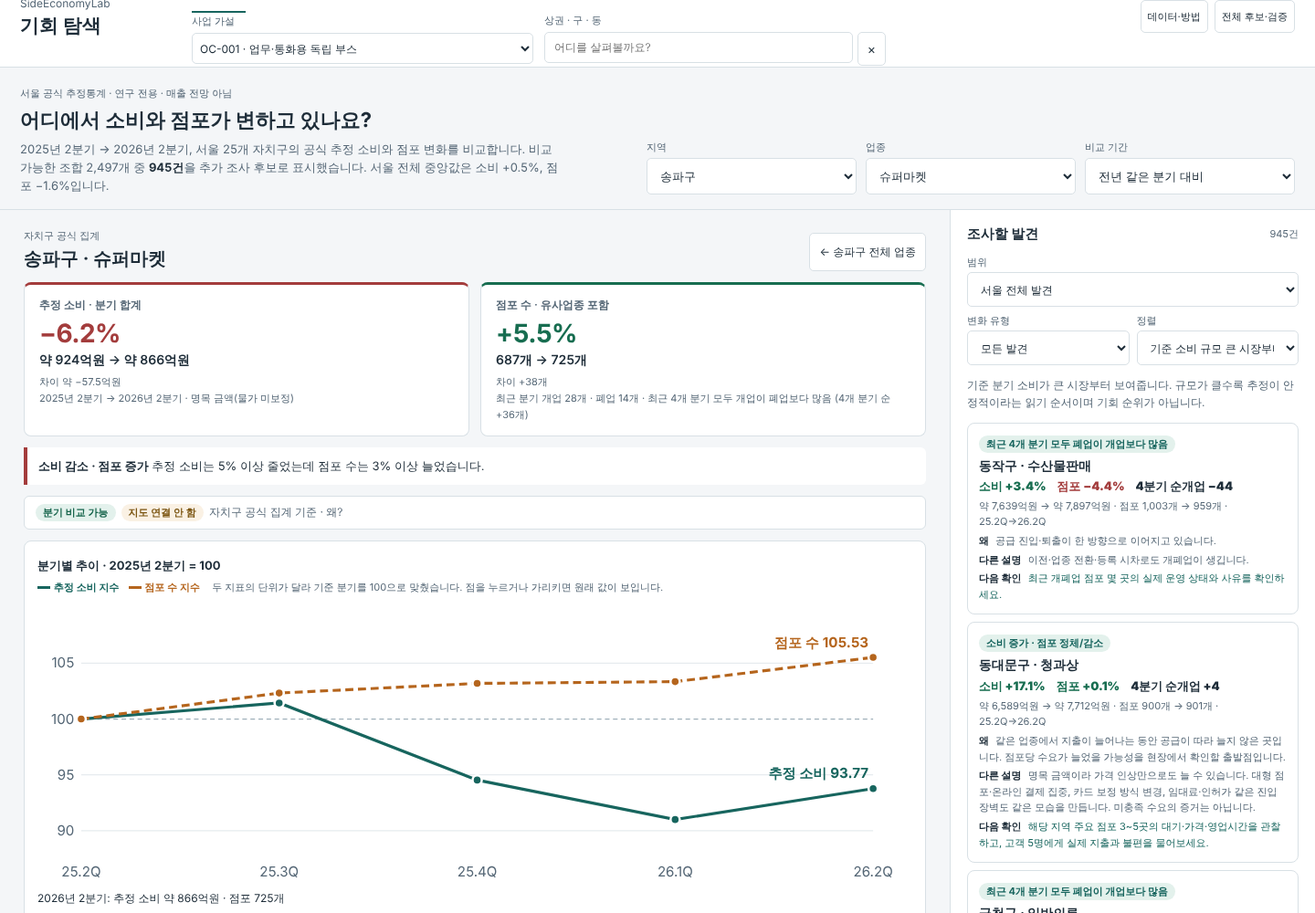
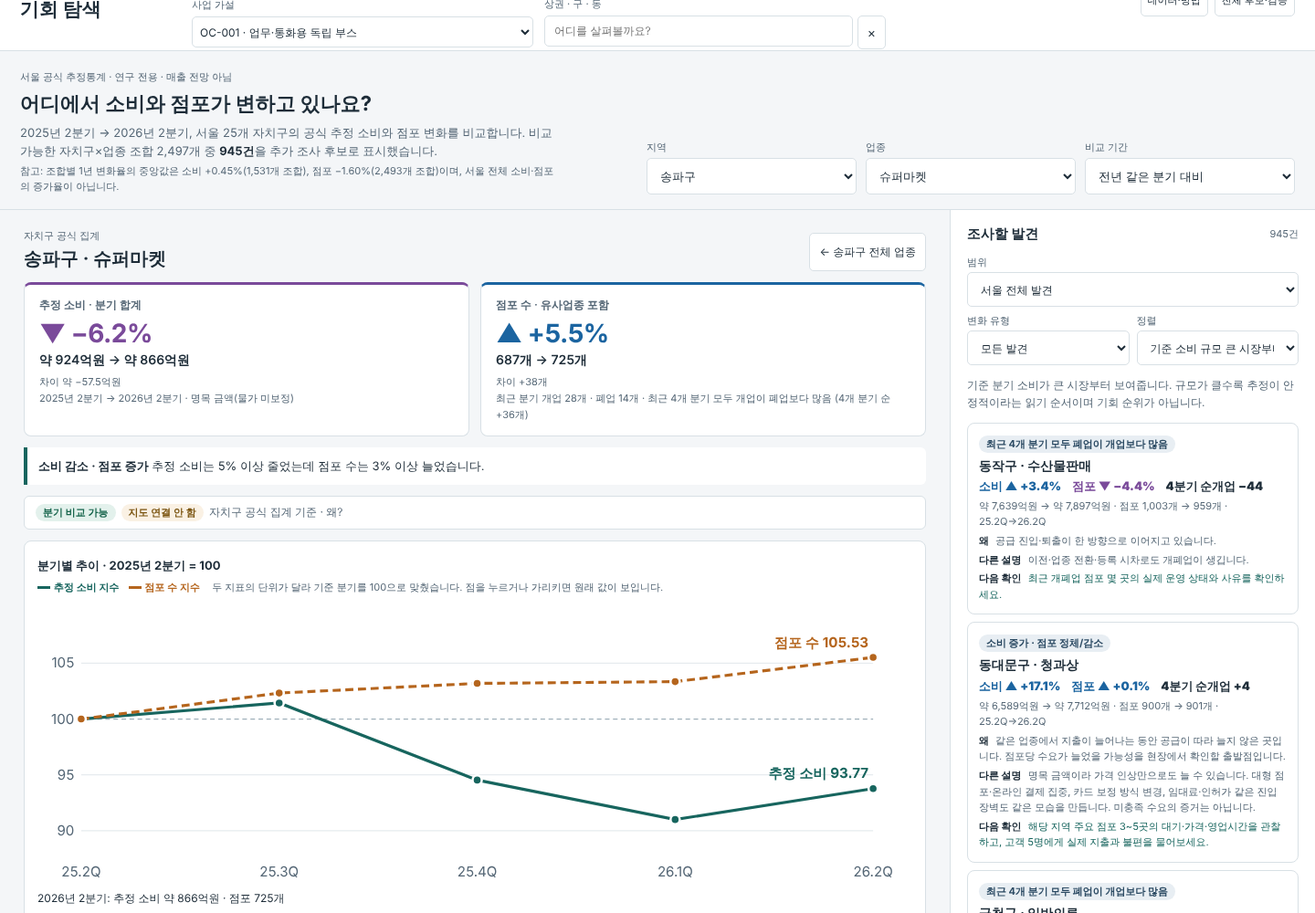
fix: pre-merge repairs for Opportunity Radar v2
- Statistics: median is across comparable district-industry combinations, not a Seoul-wide rate
- Labels: district comparisons count districts, within-district comparisons count industries
- Colors: up/down mean direction only (blue/violet + arrows), never good/bad
- Workflow: manual-only, contents: read, artifact-only; remove branch push trigger and dev config
- Transport: audit shows the official endpoint has no verified HTTPS; plaintext use is explicit,
  never silent, never logs the key; documented limits and mitigations; tests added
- Data, calculations, snapshots, gates, GIS, candidates unchanged (byte-identical to 8b981e4)

Claude-Session: https://claude.ai/code/session_015Qwu2hBhBHdZ7nzeE7Jhfd

diff --git a/docs/assets/opportunity-radar.js b/docs/assets/opportunity-radar.js
@@ -78,7 +78,7 @@
   function headline() {
     const d = domainOf('district'), c = data.coverage;
     $('radar-headline').innerHTML = d && d.gates.temporal.status === 'VERIFIED'
-      ? `${F.quarter(data.periods[0])} → ${F.quarter(data.periods.at(-1))}, 서울 ${d.areas.length}개 자치구의 공식 추정 소비와 점포 변화를 비교합니다. 비교 가능한 자치구×업종 조합 ${c.comparable.toLocaleString('ko-KR')}개 중 <strong>${c.findings.toLocaleString('ko-KR')}건</strong>을 추가 조사 후보로 표시했습니다. <span class="radar-stat">참고: 조합별 1년 변화율의 중앙값은 소비 ${F.signed(d.context.median_sales_yoy_pct)}%(${d.context.comparable_sales.toLocaleString('ko-KR')}개 조합), 점포 ${F.signed(d.context.median_stores_yoy_pct)}%(${d.context.comparable_stores.toLocaleString('ko-KR')}개 조합)이며, 서울 전체 소비·점포의 증가율이 아닙니다.</span>`
+      ? `${F.quarter(data.periods[0])} → ${F.quarter(data.periods.at(-1))}, 서울 ${d.areas.length}개 자치구의 공식 추정 소비와 점포 변화를 비교합니다. 비교 가능한 자치구×업종 조합 ${c.comparable.toLocaleString('ko-KR')}개 중 <strong>${c.findings.toLocaleString('ko-KR')}건</strong>을 추가 조사 후보로 표시했습니다. <span class="radar-stat">참고: 조합별 1년 변화율의 중앙값은 소비 ${F.signed(d.context.median_sales_yoy_pct, 2)}%(${d.context.comparable_sales.toLocaleString('ko-KR')}개 조합), 점포 ${F.signed(d.context.median_stores_yoy_pct, 2)}%(${d.context.comparable_stores.toLocaleString('ko-KR')}개 조합)이며, 서울 전체 소비·점포의 증가율이 아닙니다.</span>`
       : '관측 자료는 확보했지만 같은 지리 기준을 공식 근거로 확인하지 못해 변화 비교를 보류합니다.';
   }
 

diff --git a/tests/test_opportunity_radar.py b/tests/test_opportunity_radar.py
@@ -1,19 +1,25 @@
 """API doubles are synthetic and isolated in temporary directories, never live artifacts."""
 import copy
+import contextlib
 from datetime import datetime, timezone
 import gzip
 import io
 import json
+import os
 from pathlib import Path
 import shutil
+import ssl
 import sys
 import tempfile
 import unittest
+import urllib.error
+import urllib.parse
 from unittest.mock import patch
 
 sys.path.insert(0, str(Path(__file__).resolve().parents[1] / 'pipeline'))
 import opportunity_radar as R
-from public_api_client import SourceError
+import seoul_open_data_smoke as SMOKE
+from public_api_client import SourceError, NoRedirect
 
 PERIODS = ['20252', '20253', '20254', '20261', '20262']
 VERIFIED_TEMPORAL = {'verified': True, 'summary': 'synthetic', 'boundary_basis': 'synthetic', 'code_basis': 'synthetic', 'industry_basis': 'synthetic',
@@ -285,6 +291,91 @@ class RadarTests(unittest.TestCase):
             status = json.loads((root / R.STATUS).read_bytes())
             self.assertEqual(status['status'], 'BLOCKED'); self.assertEqual(status['reason'], 'SEOUL_API_ERROR-290'); self.assertTrue(status['previous_snapshot_preserved'])
             R.check(root)
+
+
+class TransportTests(unittest.TestCase):
+    """Seoul Open API has no verified HTTPS (audited 2026-10-11). Plaintext must be explicit, pinned and never leak the key."""
+    KEY = 'SYN+THETIC/KEY=0123456789abcdef'  # synthetic; special characters exercise URL quoting
+
+    def forms(self):
+        return {self.KEY, urllib.parse.quote(self.KEY, safe=''), urllib.parse.quote(self.KEY)}
+
+    def assert_no_key(self, text):
+        for form in self.forms():
+            self.assertNotIn(form, text)
+
+    def test_audit_evidence_is_recorded_and_says_no_verified_https(self):
+        audit = json.loads((R.ROOT / 'research/opportunity-radar-v2/transport-audit.json').read_bytes())
+        self.assertEqual(audit['key_used'], 'public sample key only'); self.assertFalse(audit['verified_https_available'])
+        self.assertTrue(audit['control_runner_can_verify_tls'], 'the runner could verify TLS elsewhere, so the failure is the endpoint')
+        by = {r['case']: r for r in audit['results']}
+        self.assertEqual(by['https_8088_verified']['detail'], 'WRONG_VERSION_NUMBER'); self.assertEqual(by['http_8088_plain']['api_code'], 'INFO-000')
+        self.assertEqual(R.API_ENDPOINT, 'http://openapi.seoul.go.kr:8088/')
+
+    def test_only_the_audited_endpoint_is_used_never_https_never_another_host(self):
+        urls = []
+        class Opener:
+            def open(self, req, timeout): urls.append(req.full_url); return io.BytesIO(json.dumps({'RESULT': {'CODE': 'INFO-200'}}).encode())
+        client = R.SeoulHistoryClient(key=self.KEY, opener=Opener(), budget=5)
+        client.call('sales', 1, 1, '20262', '3001492'); client.call('stores', 1, 1, '20262', '3001492'); client.call('sales', 1, 1, '20262', service='VwsmSignguSelngW')
+        self.assertEqual(len(urls), 3)
+        self.assertTrue(all(u.startswith('http://openapi.seoul.go.kr:8088/') for u in urls)); self.assertFalse(any(u.startswith('https') for u in urls))
+
+    def test_transport_failure_does_not_fall_back_to_another_scheme_or_host(self):
+        urls = []
+        class Opener:
+            def open(self, req, timeout): urls.append(req.full_url); raise ssl.SSLError('simulated TLS failure ' + req.full_url)
+        client = R.SeoulHistoryClient(key=self.KEY, opener=Opener(), budget=5)
+        with self.assertRaisesRegex(SourceError, '^SEOUL_TRANSPORT_OR_PARSE_FAILED$'): client.call('sales', 1, 1, '20262', '3001492')
+        self.assertTrue(urls and all(u.startswith(R.API_ENDPOINT) for u in urls), 'retries stay on the one audited endpoint')
+
+    def test_redirects_are_rejected_not_followed(self):
+        with self.assertRaisesRegex(SourceError, '^REDIRECT_REJECTED$'): NoRedirect().redirect_request(None, None, 301, 'moved', {}, 'https://example.com/')
+
+    def test_credential_never_reaches_errors_or_output(self):
+        for exc in (lambda url: urllib.error.URLError('connection failed ' + url),
+                    lambda url: urllib.error.HTTPError(url, 403, 'Forbidden ' + url, {}, None),
+                    lambda url: ssl.SSLError('bad ' + url), lambda url: ValueError('parse ' + url)):
+            class Opener:
+                def open(self, req, timeout): raise exc(req.full_url)
+            out, err = io.StringIO(), io.StringIO()
+            with contextlib.redirect_stdout(out), contextlib.redirect_stderr(err):
+                client = R.SeoulHistoryClient(key=self.KEY, opener=Opener(), budget=5)
+                with self.assertRaises(SourceError) as caught: client.call('sales', 1, 1, '20262', '3001492')
+            self.assert_no_key(str(caught.exception)); self.assert_no_key(repr(caught.exception)); self.assert_no_key(out.getvalue() + err.getvalue())
+            self.assertRegex(str(caught.exception), r'^(HTTP_403|SEOUL_TRANSPORT_OR_PARSE_FAILED)$')
+        # A response that echoes the credential is rejected before anything is stored.
+        class Echo:
+            def open(self, req, timeout): return io.BytesIO(json.dumps({'RESULT': {'CODE': 'INFO-000', 'MESSAGE': 'echo ' + self.key}}).encode())
+        echo = Echo(); echo.key = self.KEY
+        with self.assertRaisesRegex(SourceError, 'CREDENTIAL_LEAK_REJECTED'): R.SeoulHistoryClient(key=self.KEY, opener=echo, budget=2).call('sales', 1, 1, '20262', '3001492')
+
+    def test_plaintext_transport_is_announced_never_silent(self):
+        out = io.StringIO()
+        with contextlib.redirect_stdout(out), patch.dict(os.environ, {'GITHUB_ACTIONS': ''}): R.transport_notice()
+        self.assertIn('plaintext HTTP', out.getvalue()); self.assertIn('docs/seoul-open-data-api.md', out.getvalue())
+        out = io.StringIO()
+        with contextlib.redirect_stdout(out), patch.dict(os.environ, {'GITHUB_ACTIONS': 'true'}): R.transport_notice()
+        self.assertTrue(out.getvalue().startswith('::warning title=Seoul Open API transport')); self.assert_no_key(out.getvalue())
+        # collect_domain announces it before the first request when it builds its own client.
+        out = io.StringIO()
+        with tempfile.TemporaryDirectory() as folder, contextlib.redirect_stdout(out), patch.dict(os.environ, {'SEOUL': self.KEY, 'GITHUB_ACTIONS': ''}):
+            root = Path(folder); (root / 'config').mkdir(); (root / R.CONFIG).write_bytes((R.ROOT / R.CONFIG).read_bytes())
+            with patch.object(R, 'fetch_domain_history', side_effect=SourceError('STOP_AFTER_NOTICE')):
+                with self.assertRaisesRegex(SourceError, 'STOP_AFTER_NOTICE'): R.collect_domain('district', root)
+        self.assertIn('RADAR_TRANSPORT_NOTICE', out.getvalue()); self.assert_no_key(out.getvalue())
+
+    def test_existing_smoke_script_fallback_to_http_is_loud_and_keyless(self):
+        calls = []
+        def urlopen(req, timeout):
+            calls.append(req.full_url)
+            if req.full_url.startswith('https://'): raise urllib.error.URLError(ssl.SSLError('WRONG_VERSION_NUMBER'))
+            return io.BytesIO(json.dumps({'SVC': {'RESULT': {'CODE': 'INFO-000'}, 'row': [{'A': 1}]}}).encode())
+        err = io.StringIO()
+        with patch.object(SMOKE.urllib.request, 'urlopen', urlopen), contextlib.redirect_stderr(err):
+            SMOKE.call_seoul_api(self.KEY, 'SVC', 1, 1)
+        self.assertTrue(calls[0].startswith('https://') and calls[1].startswith('http://'))
+        self.assertIn('plaintext HTTP', err.getvalue()); self.assert_no_key(err.getvalue())
 
 
 if __name__ == '__main__': unittest.main()

diff --git a/pipeline/opportunity_radar.py b/pipeline/opportunity_radar.py
@@ -28,6 +28,13 @@ CONFIG = 'config/opportunity-radar-v2.json'
 INDEX = 'docs/data/opportunity-radar.json'
 STATUS = 'docs/data/opportunity-radar-status.json'
 DETAILS = 'docs/data/opportunity-radar-details'
+# Transport (audited 2026-10-11, research/opportunity-radar-v2/transport-audit.json): the official endpoint has no
+# verified HTTPS (8088 answers TLS with plain HTTP; 443/80 time out). The key is part of the URL path, so it crosses
+# the network unencrypted. This is the ONLY endpoint the client will use: no redirects followed, no scheme or host
+# substitution, never logged. If the provider enables HTTPS later, change API_ENDPOINT and re-run the audit.
+API_ENDPOINT = 'http://openapi.seoul.go.kr:8088/'
+TRANSPORT_NOTICE = ('Seoul Open API offers no verified HTTPS (audited 2026-10-11); this request path uses plaintext HTTP and the '
+                    'credential is in the URL path. It is never logged. Mitigations and limits: docs/seoul-open-data-api.md')
 OFFICIAL_HOSTS = ('data.seoul.go.kr', 'golmok.seoul.go.kr', 'www.data.go.kr', 'www.code.go.kr')
 IDENTITY = ('STDR_YYQU_CD', 'TRDAR_CD', 'TRDAR_CD_NM', 'SVC_INDUTY_CD', 'SVC_INDUTY_CD_NM')
 MEASURES = {'sales': ('THSMON_SELNG_AMT', 'THSMON_SELNG_CO'),
@@ -118,6 +125,14 @@ def normalize(row, kind, period, area):
 
 # ---------------------------------------------------------------- transport
 
+def transport_notice():
+    """Make the plaintext transport visible (never silent). No URL, no credential."""
+    if os.environ.get('GITHUB_ACTIONS') == 'true':
+        print('::warning title=Seoul Open API transport (plaintext HTTP)::' + TRANSPORT_NOTICE)
+    else:
+        print('RADAR_TRANSPORT_NOTICE ' + TRANSPORT_NOTICE)
+
+
 class SeoulHistoryClient:
     def __init__(self, key=None, opener=None, budget=80):
         self.key = os.environ.get('SEOUL', '').strip() if key is None else key.strip()
@@ -145,7 +160,7 @@ class SeoulHistoryClient:
                 raise SourceError('REQUEST_BUDGET_EXCEEDED')
             self.calls += 1
             try:
-                with self.opener.open(urllib.request.Request('http://openapi.seoul.go.kr:8088/' + path + '/', headers={'User-Agent': 'SideEconomyLab/radar-v2'}), timeout=40) as resp:
+                with self.opener.open(urllib.request.Request(API_ENDPOINT + path + '/', headers={'User-Agent': 'SideEconomyLab/radar-v2'}), timeout=40) as resp:
                     body = resp.read(4_000_001)
                 if len(body) > 4_000_000:
                     raise SourceError('RESPONSE_BUDGET_EXCEEDED')
@@ -673,7 +688,9 @@ def collect_domain(domain_id, root=ROOT, client=None, now=None):
     root = Path(root); config = load_config(root); spec = config['domains'][domain_id]
     if spec['snapshot_schema'] != 2: raise SourceError('DOMAIN_NOT_COLLECTABLE')
     now = now or datetime.now(timezone.utc)
-    if not client: client = SeoulHistoryClient(budget=spec['request_budget'])
+    if not client:
+        client = SeoulHistoryClient(budget=spec['request_budget'])
+        transport_notice()
     newest = now.year * 4 + (now.month - 1) // 3 - 1
     services = {k: {'id': v['id'], 'service': v['service']} for k, v in spec['services'].items()}
     if spec.get('request_mode') == 'full_history':

diff --git a/pipeline/radar_geography_probe.py b/pipeline/radar_geography_probe.py
@@ -21,6 +21,7 @@ import urllib.request
 
 sys.path.insert(0, str(Path(__file__).resolve().parent))
 from public_api_client import Client, SourceError, NoRedirect, assert_sanitized
+from opportunity_radar import API_ENDPOINT, TRANSPORT_NOTICE
 
 ROOT = Path(__file__).resolve().parents[1]
 PERIODS = ['20252', '20253', '20254', '20261', '20262']
@@ -80,7 +81,7 @@ class Seoul:
         path = '/'.join([urllib.parse.quote(self.key, safe=''), 'json', service, str(start), str(end), *map(str, args)])
         for attempt in range(2):
             try:
-                with self.opener.open(urllib.request.Request('http://openapi.seoul.go.kr:8088/' + path + '/',
+                with self.opener.open(urllib.request.Request(API_ENDPOINT + path + '/',
                                                              headers={'User-Agent': 'SideEconomyLab/radar-v2-probe'}), timeout=40) as r:
                     payload = json.loads(r.read(6_000_001))
                 assert_sanitized(payload, (self.key,))
@@ -185,6 +186,7 @@ def main():
     out = {'schema_version': 1, 'retrieved_at': datetime.now(timezone.utc).isoformat(), 'periods': PERIODS,
            'pages': {k: fetch_page(u) for k, u in PAGES.items()}}
     client = Seoul(args.budget)
+    print(TRANSPORT_NOTICE)
     tokens = sorted({t for p in out['pages'].values() for t in p.get('service_tokens', [])})
     services = list(dict.fromkeys(CANDIDATE_SERVICES + [t for t in tokens if re.search(r'Signgu|Adstrd', t)]))
     out['service_probes'] = [probe_service(client, s) for s in services]

diff --git a/pipeline/radar_preservation.py b/pipeline/radar_preservation.py
@@ -14,7 +14,8 @@ RADAR_SCOPE = ('docs/data/opportunity-radar', 'data/opportunity-radar/', 'docs/a
                'docs/opportunity-radar-v2.md', 'docs/index.html', 'docs/data/seoul-source-catalog.json', 'pipeline/opportunity_radar.py',
                'pipeline/radar_', 'pipeline/README.md', 'config/opportunity-radar', 'tests/test_opportunity_radar.py', 'tests/radar-',
                'research/opportunity-radar-v2/', 'research/screenshots/opportunity-radar-v2/', 'research/seoul-opportunity-completion-v2.md',
-               '.github/workflows/opportunity-radar-', 'README.md')
+               '.github/workflows/opportunity-radar-', '.github/workflows/seoul-open-data-smoke.yml', 'pipeline/seoul_transport_audit.py',
+               'pipeline/seoul_open_data_smoke.py', 'docs/opportunity-radar-v1.md', 'docs/seoul-open-data-api.md', 'README.md')
 PORTFOLIO = 'docs/data/candidate-validation-portfolio.json'
 KEY = ('docs/data/candidate-registry.json', 'docs/data/business-workbench.json',
        'docs/data/decision-evidence.json', 'docs/data/seoul-opportunity-map.json', 'docs/data/kakao-poi-layer.json',

diff --git a/pipeline/seoul_open_data_smoke.py b/pipeline/seoul_open_data_smoke.py
@@ -28,6 +28,10 @@ def call_seoul_api(api_key: str, service: str, start: int, end: int):
             )
             with urllib.request.urlopen(req, timeout=30) as response:
                 payload = json.loads(response.read().decode("utf-8"))
+                if base.startswith("http://"):
+                    # Audited 2026-10-11: verified HTTPS is unavailable for this endpoint. Never silent.
+                    print("WARNING: plaintext HTTP used; openapi.seoul.go.kr offers no verified HTTPS "
+                          "(docs/seoul-open-data-api.md). The URL is not printed.", file=sys.stderr)
                 return payload
         except urllib.error.HTTPError as exc:
             last_error = f"HTTP {exc.code}"

diff --git a/pipeline/seoul_transport_audit.py b/pipeline/seoul_transport_audit.py
@@ -13,6 +13,7 @@ version, certificate subject/issuer/validity, whether the hostname matched).
 import argparse
 import http.client
 import json
+import os
 import socket
 import ssl
 import sys
@@ -103,6 +104,7 @@ def main():
               'verified_https_available': bool(ok), 'verified_https_endpoints': [f"{r['host']}:{r['port']}" for r in ok]}
     text = json.dumps(report, ensure_ascii=False, indent=1)
     if args.out:
+        os.makedirs(os.path.dirname(args.out) or '.', exist_ok=True)
         with open(args.out, 'w', encoding='utf-8') as f:
             f.write(text + '\n')
     print(text)

diff --git a/docs/seoul-open-data-api.md b/docs/seoul-open-data-api.md
@@ -22,9 +22,49 @@ The smoke test requests only rows 1-5.
 - The uploaded artifact contains only response metadata and the five public-data rows.
 - No secret value is committed to the repository.
 
+## 전송 보안 — 검증된 HTTPS 없음 (2026-10-11 감사)
+
+**결론: 서울 열린데이터광장 Open API(`openapi.seoul.go.kr`)는 검증된 HTTPS를 제공하지 않습니다. 인증키가 URL 경로에 들어가므로, 이 저장소의 모든 호출에서 키는 GitHub 러너에서 서울시 서버까지 암호화되지 않은 채 이동합니다.** 이 한계는 해결하지 못했고 "안전하다"고 주장하지 않습니다.
+
+| 관측 (GitHub 러너, 공개 `sample` 키 · 실제 키 미사용) | 결과 |
+|---|---|
+| 대조군 `https://data.seoul.go.kr` | TLS 1.3, `*.seoul.go.kr` 인증서(GlobalSign, 2026-12-19까지) **검증 성공** — 러너는 TLS를 검증할 수 있음 |
+| `https://openapi.seoul.go.kr:8088` | TCP는 열려 있으나 TLS 협상이 `WRONG_VERSION_NUMBER`로 실패 — 이 포트는 평문 HTTP로만 응답 |
+| `https://openapi.seoul.go.kr:443` | TCP 연결 시간 초과(닫혀 있거나 차단, 둘을 구별하지 못함) |
+| `http://openapi.seoul.go.kr:80` | TCP 연결 시간 초과 |
+| `http://openapi.seoul.go.kr:8088` | 200, `INFO-000` — 유일하게 동작하는 경로 |
+
+[기록](../research/opportunity-radar-v2/transport-audit.json) · [실행](https://github.com/jaehojung1879-netizen/SideEconomyLab/actions/runs/38106459789). 재현: `python pipeline/seoul_transport_audit.py` 또는 **Opportunity Radar official collection** 워크플로의 `transport-audit` 모드. 감사는 공개 `sample` 키만 쓰고 인증서 검증을 끄지 않으며, 환경 변수를 읽지 않습니다.
+
+### 이 저장소의 사용처
+
+| 파일 | 전송 | 비고 |
+|---|---|---|
+| `pipeline/opportunity_radar.py` (기회 탐색) | 평문 HTTP 8088만 | 다른 주소·스킴으로 바꾸지 않음, 리다이렉트 거부, 실행 시 경고 출력 |
+| `pipeline/radar_geography_probe.py` | 평문 HTTP 8088만 | 같은 상수 사용, 실행 시 경고 출력 |
+| `pipeline/seoul_open_data_smoke.py` | HTTPS 시도 후 HTTP | HTTPS 시도는 항상 실패함. 이전에는 조용히 HTTP로 내려갔고, 이제 경고를 stderr에 남김(동작은 동일) |
+| `pipeline/seoul_location_screen.py`, `seoul_location_probe.py` (기존 GIS 수요 수집) | 평문 HTTP 8088만 | **이번 PR에서 변경하지 않음**(GIS 갱신 파이프라인 보존). 같은 한계가 적용됨 |
+
+### 현재 적용된 완화 (코드로 시험함)
+
+- 키는 GitHub 저장소 비밀값 `SEOUL`에만 있고 Actions 러너에서만 사용합니다. 수집 워크플로는 **수동 실행 전용**, `contents: read`, 결과는 artifact로만 올립니다.
+- 기회 탐색 수집기와 조사 도구는 호출 URL·예외 문자열·응답 메시지를 출력하지 않습니다. 응답에 키가 되돌아오면 저장 전에 거부합니다(`CREDENTIAL_LEAK_REJECTED`). 오류 코드는 `HTTP_403` 같은 공개 코드뿐입니다. (기존 smoke 스크립트는 API가 돌려준 오류 메시지를 그대로 출력하므로 이 보장이 적용되지 않습니다. 변경하지 않았습니다.)
+- 호스트·포트를 고정하고 리다이렉트를 따라가지 않으며, 연결 실패 시 다른 주소로 재시도하지 않습니다.
+- 평문 전송은 실행마다 경고(`::warning`)로 드러납니다. 조용히 내려가지 않습니다.
+- 위 동작은 합성 키(특수문자 포함, 인코딩된 형태까지)로 시험하며 실제 키는 시험·산출물·로그에 쓰이지 않습니다.
+
+### 남은 위험과 실무적 대응 (저장소 소유자 몫, 이번 PR에서 변경하지 않음)
+
+- **키 노출 가능 구간은 러너 → 서울시 서버의 인터넷 경로입니다.** 서울 열린데이터광장이 공개데이터 조회용으로 발급하는 키이지만, 이 키의 권한 범위와 호출 한도는 이 저장소에서 확인하지 못했습니다. 노출이 의심되면 즉시 폐기·재발급하고 `SEOUL` 비밀값을 교체하세요. 정기 교체도 권합니다.
+- 키를 환경(Environment) 비밀값으로 옮기고 필수 검토자를 두면 실행 주체와 범위를 더 좁힐 수 있습니다.
+- 로컬 PC·공용망에서는 실제 키로 실행하지 마세요. 키는 Actions에서만 쓰는 것이 전제입니다.
+- 서울 열린데이터광장(문의하기)에 HTTPS 지원을 요청하고, 지원되면 `API_ENDPOINT`만 바꾼 뒤 감사를 다시 실행하세요.
+- 일부 데이터셋(상권·행정동)은 HTTPS 파일 다운로드가 있으나, 자치구 추정매출·점포는 2026-10-10 조사 시 파일이 없었습니다. 파일로 대체하는 것은 이번 PR에서 구현하지 않았습니다.
+- 관측은 GitHub 러너에서 하루(2026-10-11)에 두 번 한 것입니다. 제공기관이 이후 HTTPS를 열 수 있으므로 감사를 다시 실행해 확인해야 합니다.
+
 ## Usage in GitHub Actions
 
-The workflow `.github/workflows/seoul-open-data-smoke.yml` runs on pushes to the dedicated data branch and can also be run manually after merge.
+The workflow `.github/workflows/seoul-open-data-smoke.yml` runs on pushes to the dedicated data branch and can also be run manually after merge. Opportunity Radar collection uses its own manual workflow, `.github/workflows/opportunity-radar-collect.yml` (artifact only; see `docs/opportunity-radar-v2.md`).
 
 ## Why this dataset
 

diff --git a/research/seoul-opportunity-completion-v2.md b/research/seoul-opportunity-completion-v2.md
@@ -72,3 +72,12 @@ GitHub Actions run [38022005175](https://github.com/jaehojung1879-netizen/SideEc
 - 발견 945건은 읽기 순서이며 조사 우선순위나 기회 순위가 아닙니다. 5%/3% 변화 폭과 1억원/10개 규모 기준은 연구용 설정(`config/opportunity-radar-v2.json`)입니다.
 - 요약 색인이 v1보다 큽니다(523 KB, gzip 약 102 KB).
 - 실제 배포 도메인에서의 10초 이해 여부는 사용자가 확인해야 합니다. 병합·Ready 전환은 수행하지 않았습니다.
+
+## 병합 전 최종 수리 (검토 반영)
+
+계산·데이터·스냅샷·지리 관문은 바꾸지 않았습니다(검토 헤드 `8b981e4`와 데이터·계산 파일 바이트 동일).
+
+1. **통계 설명 정정**: "서울 전체 중앙값"을 없앴습니다. 참고 통계는 *자치구×업종 조합별 1년 변화율의 중앙값*(소비 +0.45%, 1,531개 조합 · 점포 −1.60%, 2,493개 조합)이며 서울 전체 소비·점포의 합계 증가율이 아니라고 화면과 문서에 명시했습니다.
+2. **비교 라벨·색상**: 자치구끼리 비교는 "N개 자치구", 한 자치구 안의 업종 비교는 "N개 업종"으로 셉니다. 증가 ▲(파랑)·감소 ▼(보라)는 방향만 뜻하며 좋고 나쁨이 아님을 화면에 적었습니다. 빨강/초록과 패턴별 붉은 태그를 없앴고 개업·폐업 막대도 같은 두 색을 씁니다. 브라우저 시험이 개수·색(빨강/초록 아님)·화살표를 실제 데이터와 대조합니다.
+3. **수집 워크플로**: Claude 브랜치 전용 push 트리거와 개발용 설정 파일(`config/opportunity-radar-run.json`)을 제거했습니다. 수동 실행 전용·`contents: read`·artifact만 업로드(저장소에 쓰지 않음)이며, 검증에 실패하면 artifact가 없고 이전 묶음이 남습니다. 기존 smoke 워크플로의 중복 `radar_history` 경로는 v1 이전 형태로 되돌렸습니다.
+4. **전송 보안 감사**: 공식 엔드포인트는 **검증된 HTTPS를 제공하지 않습니다**(8088은 TLS에 평문 HTTP로 응답, 443/80은 연결 시간 초과, 같은 러너가 `data.seoul.go.kr`의 TLS는 검증함). 안전하다고 주장하지 않고, 평문 사용을 실행마다 경고로 드러내며 조용한 대체를 막고 키가 로그·예외에 나오지 않음을 시험으로 고정했습니다. 한계와 남은 위험, 실무 대응은 [전송 보안 문서](../docs/seoul-open-data-api.md)와 [감사 기록](opportunity-radar-v2/transport-audit.json)에 있습니다. 기존 GIS 수요 수집 스크립트는 변경하지 않았고 같은 한계가 적용됩니다.

diff --git a/docs/opportunity-radar-v1.md b/docs/opportunity-radar-v1.md
@@ -52,7 +52,7 @@ python pipeline/opportunity_radar.py --check
 python -m unittest discover -s tests -p test_opportunity_radar.py -v
 ```
 
-새 수집은 GitHub Actions **Seoul Open Data API smoke**의 `radar_history=true`로 실행합니다. 기존 smoke 경로는 유지됩니다. 수집 결과는 artifact만 만들고 원격 main에 쓰지 않습니다. 전체 검증 후 정적 묶음을 검토·커밋합니다. 서버 로그에는 키/응답 메시지/인증 URL을 출력하지 않습니다. 기존 HTTP :8088 공식 엔드포인트를 사용하므로 제공자의 암호화 전송 지원 확인은 남아 있습니다.
+새 수집은 GitHub Actions **Seoul Open Data API smoke**의 `radar_history=true`로 실행합니다. 기존 smoke 경로는 유지됩니다. *(v2에서 대체됨: 수집은 전용 수동 워크플로 **Opportunity Radar official collection**이 맡고 smoke 워크플로에서 `radar_history`를 제거했습니다. [v2 문서](opportunity-radar-v2.md) 참고.)* 수집 결과는 artifact만 만들고 원격 main에 쓰지 않습니다. 전체 검증 후 정적 묶음을 검토·커밋합니다. 서버 로그에는 키/응답 메시지/인증 URL을 출력하지 않습니다. 기존 HTTP :8088 공식 엔드포인트를 사용하므로 제공자의 암호화 전송 지원 확인은 남아 있습니다.
 
 필수 스키마·숫자·기간·키·범위·페이지·점포 항등식을 검사합니다. 불변 스냅샷과 정확한 결정적 파생, 세부 파일 해시를 검사하고 실패 시 이전 묶음을 복원합니다. 별도 최근 수집 상태는 실패를 표시해 오래된 성공을 새 성공으로 위장하지 않습니다. 서버는 raw를 처리하고 브라우저에는 111,773바이트 요약과 선택한 작은 상세 파일만 전달합니다. 지도 조작·후보 변경은 원천 API나 raw 스냅샷 다운로드를 일으키지 않습니다. 약 13.8MB 기존 판단 자료는 **사업성 검토를 열 때** 지연 로딩합니다.
 

diff --git a/pipeline/README.md b/pipeline/README.md
@@ -12,4 +12,4 @@ Prefer simple, inspectable Python over infrastructure.
 
 ### Opportunity Radar v2
 
-`opportunity_radar.py --check` re-derives the radar index and per-area details from immutable snapshots (`data/opportunity-radar/<date>-<hash>/source.json.gz`) and `config/opportunity-radar-v2.json`. Each source geography has two independent gates: **temporal** (may quarters be compared?) and **gis** (may it be joined to the 1,650-area map?). `opportunity_radar.py --domain district` collects five complete quarters of official district sales/stores with server-side `SEOUL` and fails closed (previous bundle preserved, status BLOCKED). `radar_geography_probe.py` records the official page/service/code evidence used to decide the gates. Workflow: **Opportunity Radar official collection** (`mode=probe|collect`). See `docs/opportunity-radar-v2.md`.
+`opportunity_radar.py --check` re-derives the radar index and per-area details from immutable snapshots (`data/opportunity-radar/<date>-<hash>/source.json.gz`) and `config/opportunity-radar-v2.json`. Each source geography has two independent gates: **temporal** (may quarters be compared?) and **gis** (may it be joined to the 1,650-area map?). `opportunity_radar.py --domain district` collects five complete quarters of official district sales/stores with server-side `SEOUL` and fails closed (previous bundle preserved, status BLOCKED). `radar_geography_probe.py` records the official page/service/code evidence used to decide the gates. Workflow: **Opportunity Radar official collection** (manual `workflow_dispatch`, `contents: read`, artifact only; `mode=collect|probe|transport-audit`). `seoul_transport_audit.py` records that the official endpoint has no verified HTTPS (credential-free); see `docs/seoul-open-data-api.md`. See `docs/opportunity-radar-v2.md`.
